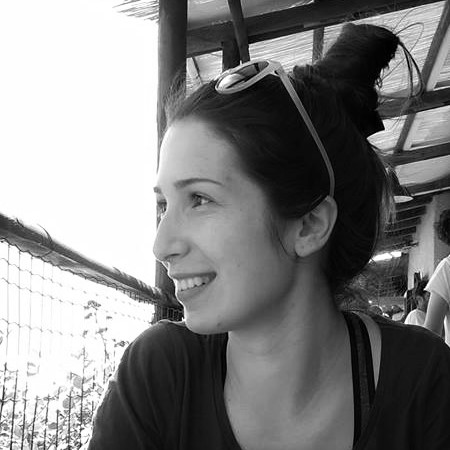
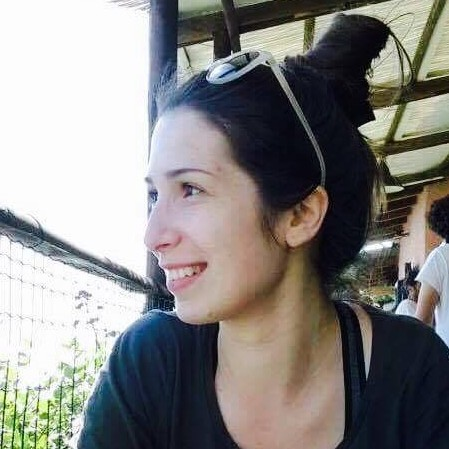
css refactoring, new myimage added

diff --git a/index.html b/index.html
@@ -4,7 +4,8 @@
 		<meta name="viewport" content="width=device-width, initial-scale=1">
 		<meta charset="UTF-8">
 		<script src="https://code.jquery.com/jquery-3.1.0.min.js" integrity="sha256-cCueBR6CsyA4/9szpPfrX3s49M9vUU5BgtiJj06wt/s="   crossorigin="anonymous"></script>
-		<link href="https://fonts.googleapis.com/css?family=Arvo" rel="stylesheet">		<link rel="stylesheet" type="text/css" href="font-awesome/css/font-awesome.min.css">
+		<link href="https://fonts.googleapis.com/css?family=Arvo" rel="stylesheet">
+		<link rel="stylesheet" type="text/css" href="font-awesome/css/font-awesome.min.css">
 		<link rel="stylesheet" type="text/css" href="css/bootstrap.css">
 		<link rel="stylesheet" type="text/css" href="css/style.css">
 		<title>Martina Dražić</title>
@@ -37,7 +38,7 @@
 				<div class="row" id="about">
 					<div class="col-md-12 line">
 						<div class="about"></div>
-						<p style="background-color: #F3F3F3;">ABOUT</p>
+						<p>ABOUT</p>
 					</div>
 				</div>
 				<div class="row">
@@ -72,7 +73,7 @@
 				<div class="row" id="myportfolio">
 					<div class="col-md-12 line">
 						<div class="about"></div>
-						<p class="portfolio" style="background-color: #F3F3F3;">PORTFOLIO</p>
+						<p class="portfolio">PORTFOLIO</p>
 					</div>
 				</div>
 				<div class="row">
@@ -160,7 +161,7 @@
 					</div>
 				</div>
 				<div class="row">
-					<div class="col-md-12 dot-view" style="text-align:center">
+					<div class="col-md-12 dot-view text-center">
 						<span class="dot" onclick="currentSlide(1)"></span>
 						<span class="dot" onclick="currentSlide(2)"></span>
 						<span class="dot" onclick="currentSlide(3)"></span>
@@ -176,7 +177,7 @@
 						<div class="content">
 							<div class="col-md-12 line">
 								<div class="about-last-line"></div>
-								<p class="contact" style="background-color: #E8634E; color: white">CONTACT</p>
+								<p class="contact">CONTACT</p>
 							</div>
 						</div>
 					</div>
@@ -184,7 +185,7 @@
 						<div class="footer-bottom">
 							<div class="col-md-3 left-text text-center">
 								<p class="title">WHERE TO FIND ME</p>
-								<p style="color: white">Currently live in Belgrade, Serbia</p>
+								<p class="location">Currently live in Belgrade, Serbia</p>
 								<p class="mail">You can reach me at</p><a href="https://mail.google.com/mail/u/0/#inbox">dr.martinadrazic@gmail.com</a>
 							</div>
 							<div class="col-md-6 text-center">

diff --git a/css/style.css b/css/style.css
@@ -64,6 +64,16 @@ body {
 	font-size: 25px;
 }
 
+#about p,
+#myportfolio p {
+	background-color: #F3F3F3;
+}
+
+#mycontact p {
+	background-color: #E8634E;
+	color: white
+}
+
 .about {
 	height: 2px;
 	width: 100%;
@@ -288,15 +298,19 @@ body {
     margin: 0 auto;
 }
 
+.location,
+.title,
+.mail {
+	color: white;
+}
+
 .title {
 	font-size: 20px;
 	margin-bottom: 30px;
 	margin-top: 30px;
-	color: white;
 }
 
 .mail {
-	color: white;
 	margin-bottom: 0px;
     margin-top: 20px;
 }
@@ -390,7 +404,6 @@ body {
 }
 
 @media only screen and (max-width: 1000px) {
-
 	.slideshow-container {
 		text-align: center;
 	}
